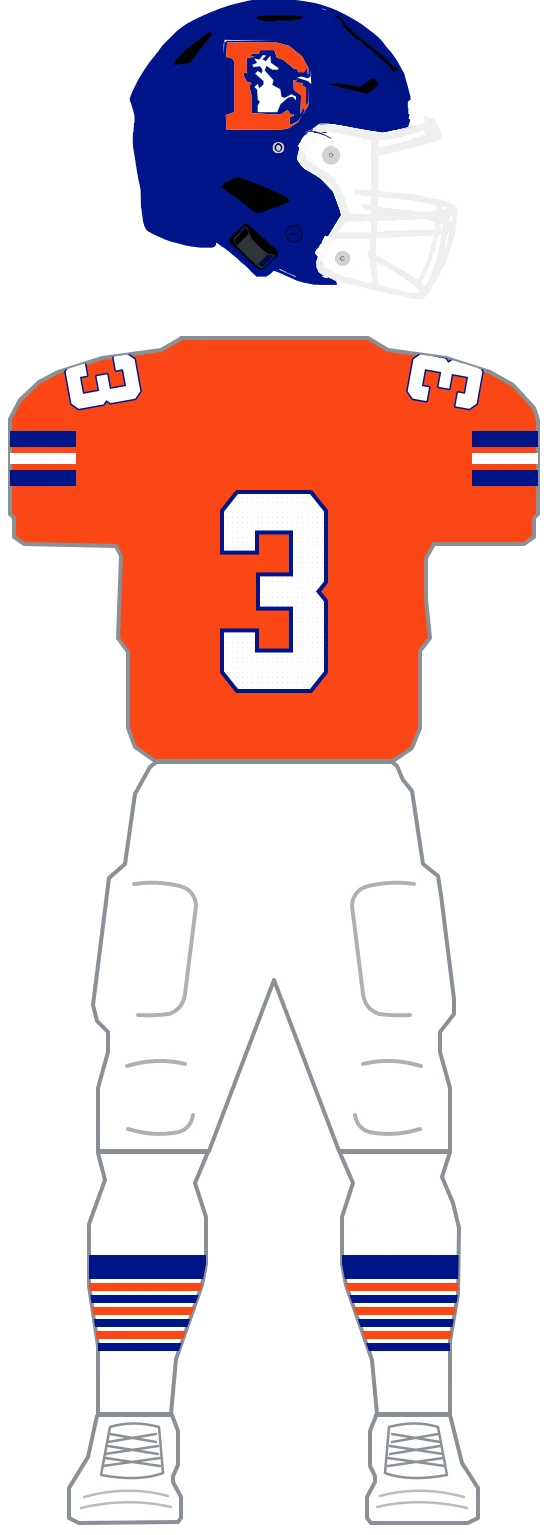
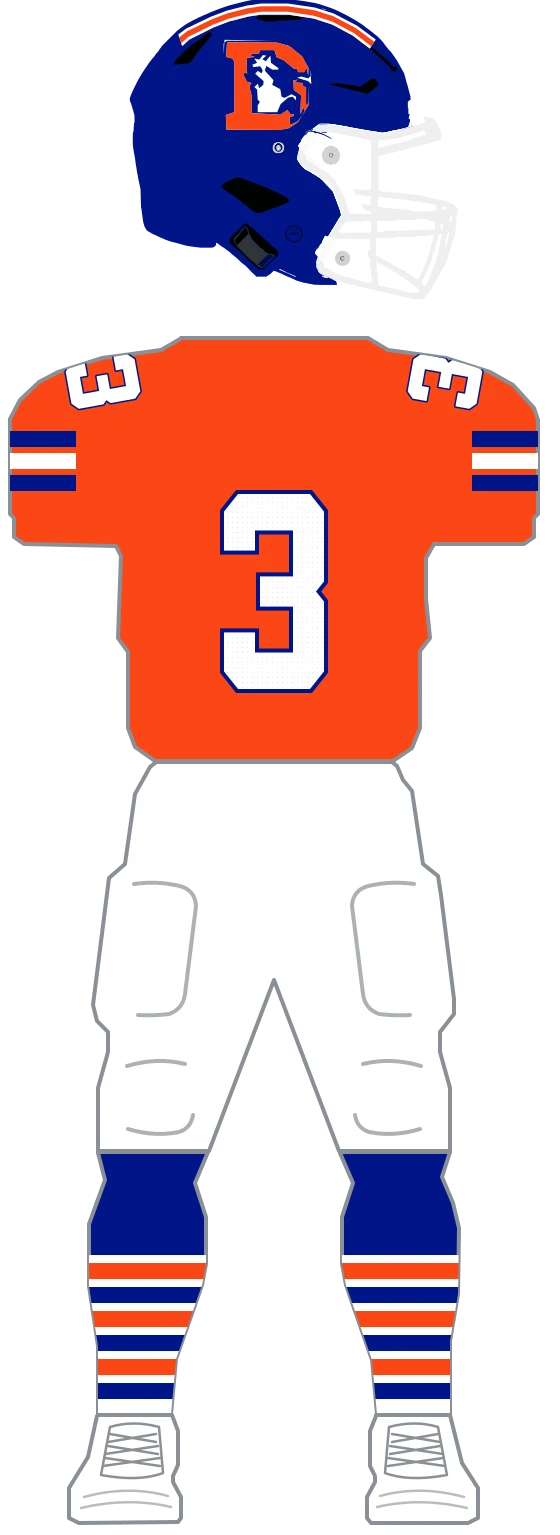
fix(uniforms): seat the Orange Crush crown stripe, widen its white sleeve stripe and draw royal-topped socks for the Broncos (#1141)

diff --git a/web/lib/uniforms/teams/broncos/parts.ts b/web/lib/uniforms/teams/broncos/parts.ts
@@ -48,20 +48,27 @@ export const BRONCOS_SPEC: TeamSpec = {
     white: plainSocks('white'),
     navy: plainSocks('navy'),
     orange: plainSocks('orange'),
-    // Royal above alternating orange and royal hoops, split by white.
+    // Royal from the hem down the calf, three orange hoops outlined in white with royal between
+    // them, then white to the shoe.
     crush: {
-      color: 'white',
+      color: 'royal',
       stripes: {
         bands: [
-          { color: 'royal', size: 'l' },
-          { color: 'crushOrange', size: 's' },
-          { color: 'royal', size: 's' },
-          { color: 'crushOrange', size: 's' },
-          { color: 'royal', size: 's' },
-          { color: 'crushOrange', size: 's' },
-          { color: 'royal', size: 's' },
+          { color: 'white', size: 's' },
+          { color: 'crushOrange', size: 'm' },
+          { color: 'white', size: 's' },
+          { color: 'royal', size: 'm' },
+          { color: 'white', size: 's' },
+          { color: 'crushOrange', size: 'm' },
+          { color: 'white', size: 's' },
+          { color: 'royal', size: 'm' },
+          { color: 'white', size: 's' },
+          { color: 'crushOrange', size: 'm' },
+          { color: 'white', size: 's' },
+          { color: 'royal', size: 'm' },
+          { color: 'white', size: 'l' },
         ],
-        gap: 'narrow',
+        gap: 'none',
         edge: 'none',
       },
     },

diff --git a/web/lib/uniforms/teams/broncos/marks/construction.ts b/web/lib/uniforms/teams/broncos/marks/construction.ts
@@ -9,6 +9,7 @@ import {
   BRONCOS_DECAL_MANE_PATH,
 } from './paths';
 import { placed, type PlacedMark } from '../../core/marks';
+import { seatedCrownStripe } from '../../core/shared';
 import type { PartLayer } from '../../core/parts';
 import type { UniformSurface } from '../../core/types';
 
@@ -29,8 +30,14 @@ export const BRONCOS_HORSE_DECAL = placed([
   fill('broncos-decal-eye', 'helmet', BRONCOS_DECAL_EYE_PATH, 'orange'),
 ]);
 
-// Orange Crush's "D": white keyline under the orange letter and charging horse.
+// Orange Crush's white-orange-white crown stripe seated on the shell, then the "D": white keyline
+// under the orange letter and charging horse.
 export const BRONCOS_CRUSH_DECAL = placed([
+  ...seatedCrownStripe([
+    { id: 'broncos-crush-crown-white-top', fill: 'white', weight: 1 },
+    { id: 'broncos-crush-crown-orange', fill: 'crushOrange', weight: 2 },
+    { id: 'broncos-crush-crown-white-bottom', fill: 'white', weight: 1 },
+  ]),
   fill('broncos-decal-under', 'helmet', BRONCOS_CRUSH_DECAL_KEYLINE_PATH, 'white'),
   fill('broncos-decal-over', 'helmet', BRONCOS_CRUSH_DECAL_D_PATH, 'crushOrange'),
 ]);

diff --git a/web/lib/uniforms/teams/broncos/jerseys/crush.ts b/web/lib/uniforms/teams/broncos/jerseys/crush.ts
@@ -11,7 +11,7 @@ export const BRONCOS_JERSEY_CRUSH: CompleteJerseySpec = {
   sleeveStripes: {
     bands: [
       { color: 'royal', size: 'm' },
-      { color: 'white', size: 's' },
+      { color: 'white', size: 'm' },
       { color: 'royal', size: 'm' },
     ],
     gap: 'narrow',
